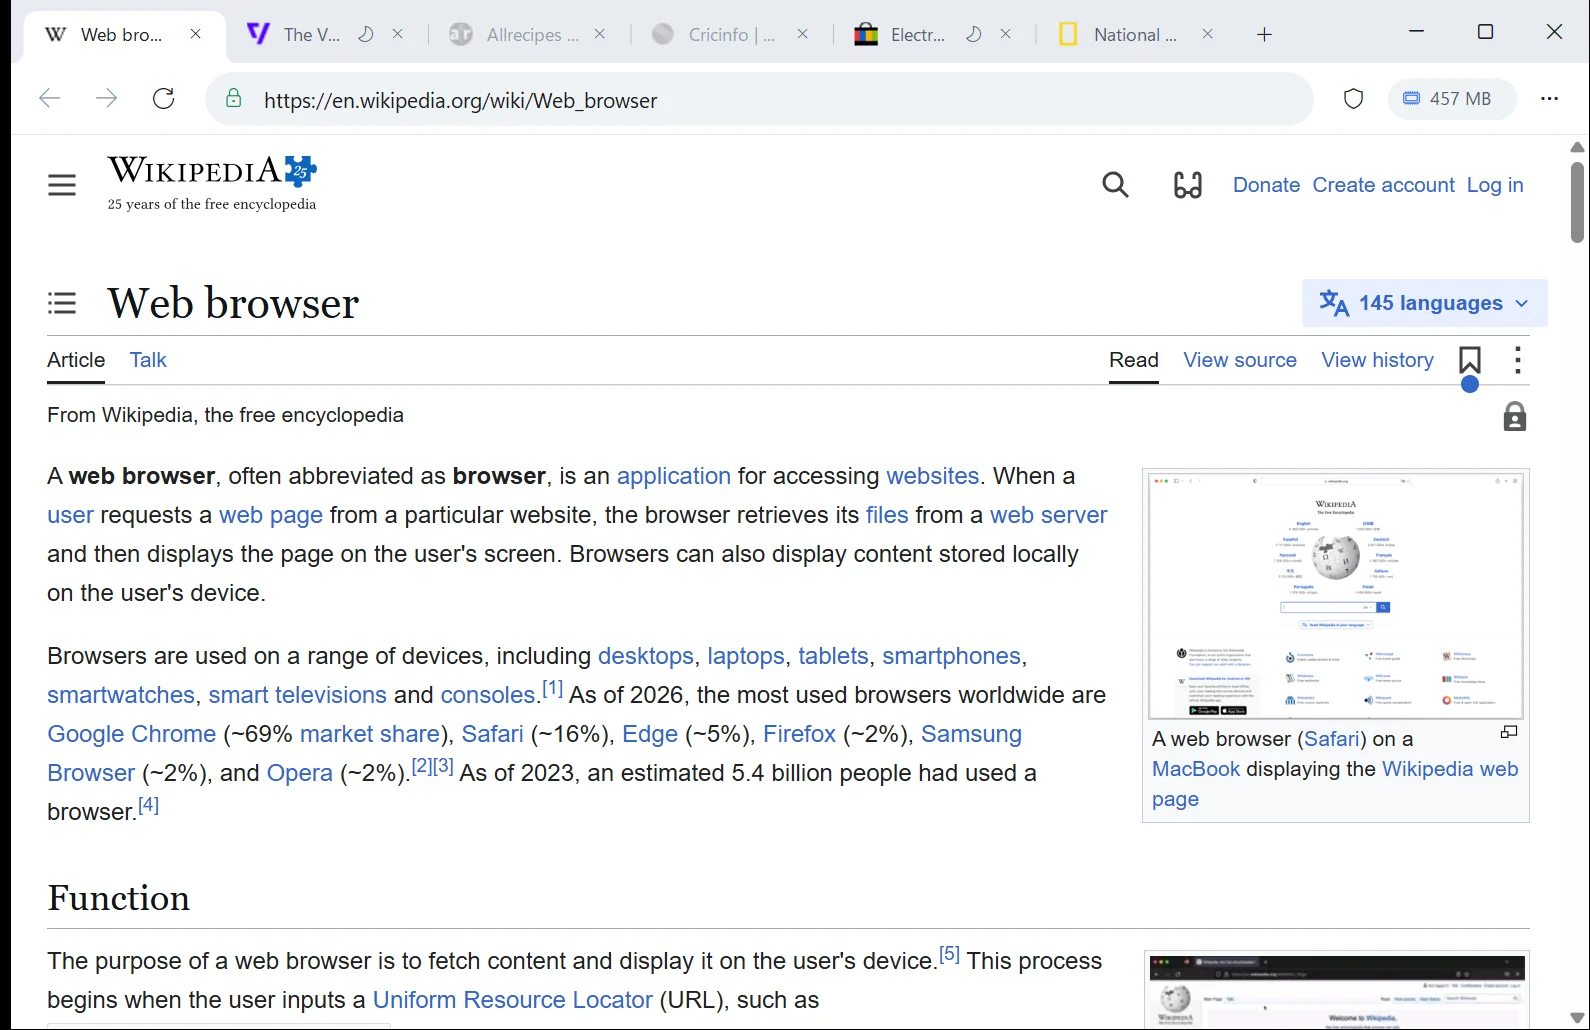
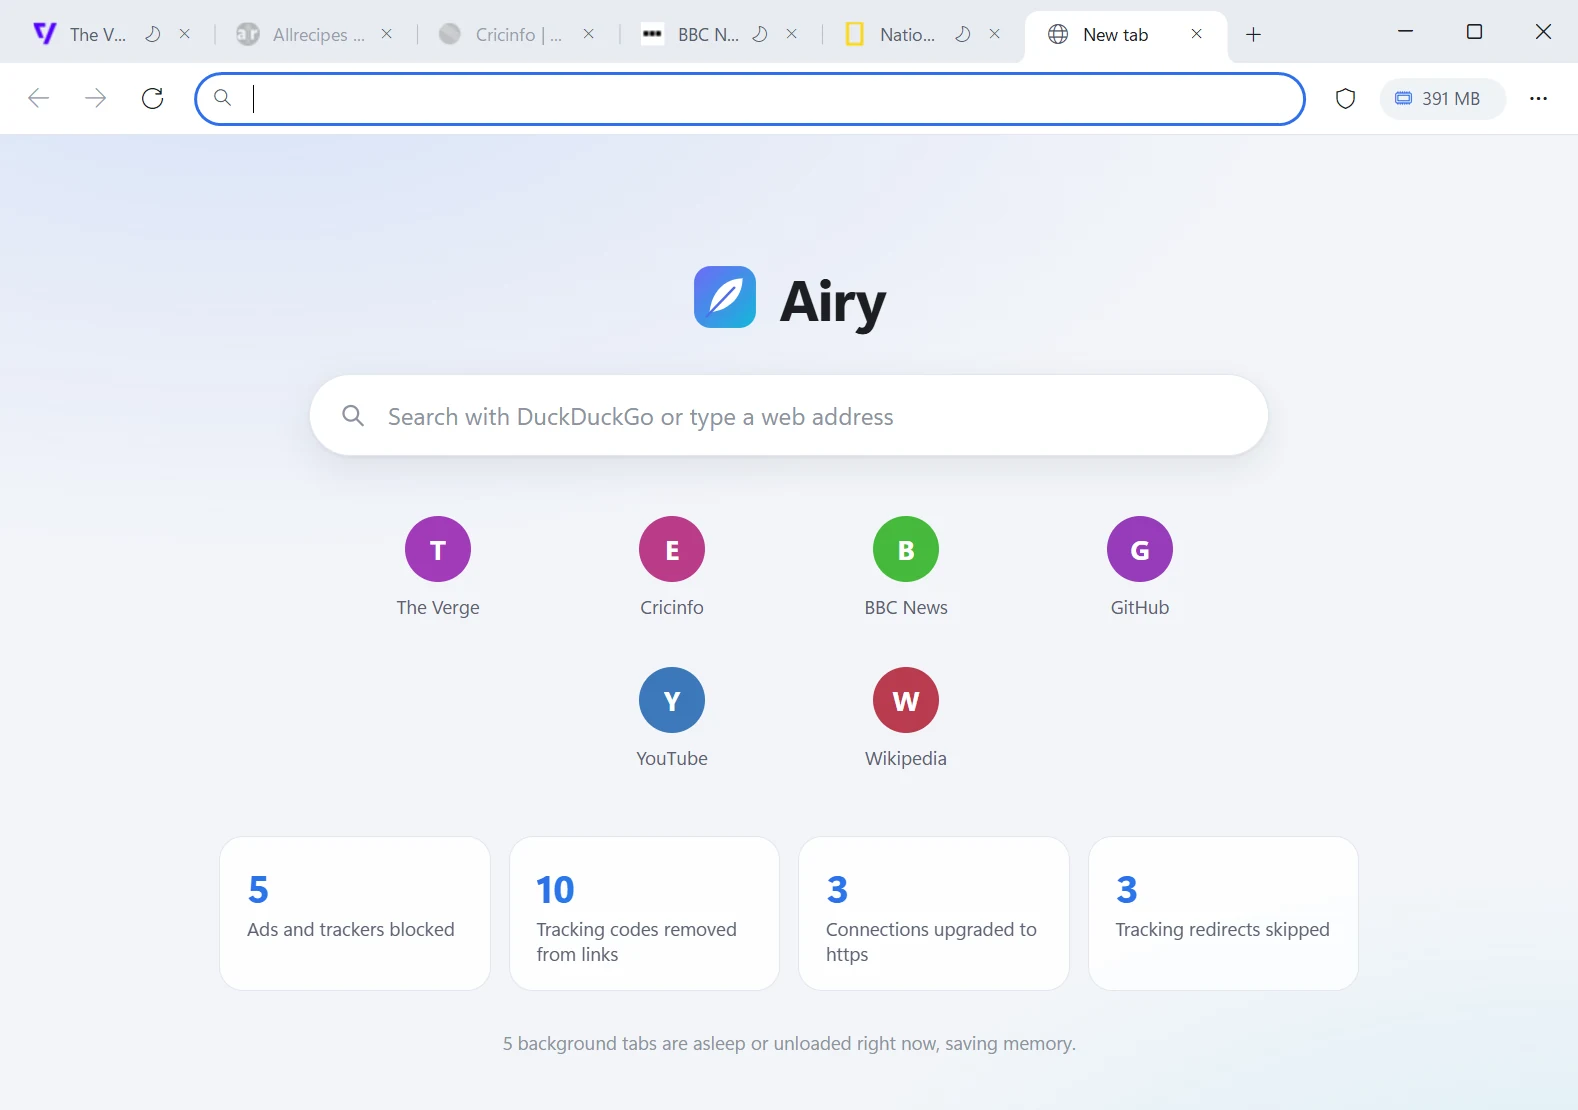
Hero: Airy start page with sleeping tabs and privacy counters; matching link preview

diff --git a/index.html b/index.html
@@ -57,9 +57,9 @@
       <ul class="fine reveal"><li>Free, MIT License</li><li>No account</li><li>No telemetry</li><li>No admin rights to install</li></ul>
     </div>
     <div class="shot reveal">
-      <img src="assets/hero.webp" width="1590" height="1030" alt="Airy showing a Wikipedia article. Six tabs are open; background tabs show a moon icon when asleep and are greyed out when unloaded. The toolbar reads 457 MB.">
+      <img src="assets/hero.webp" width="1578" height="1110" alt="Airy's new tab page with five sites open in background tabs, each showing a moon icon because it is asleep. The page counts 5 ads and trackers blocked, 10 tracking codes removed from links, 3 connections upgraded to https and 3 tracking redirects skipped, and the toolbar reads 391 MB.">
       <div class="tag tag-sleep"><svg class="moon" viewBox="0 0 16 16" aria-hidden="true"><path fill="currentColor" d="M10.5 1.2a6.8 6.8 0 1 0 4.3 11.1A6 6 0 0 1 10.5 1.2z"/></svg><span><b>Asleep</b> after 30 s in the background</span></div>
-      <div class="tag tag-mem"><span><b>457 MB</b> for six tabs, shown live in the toolbar</span></div>
+      <div class="tag tag-mem"><span><b>391 MB</b> for six tabs, shown live in the toolbar</span></div>
     </div>
   </div>
 </section>

diff --git a/assets/site.css b/assets/site.css
@@ -61,7 +61,7 @@ p { margin: 0; text-wrap: pretty; }
 .shot img { border-radius: 14px; box-shadow: 0 0 0 1px oklch(22% 0.03 262 / .08), 0 30px 70px -30px oklch(30% 0.1 262 / .45); }
 .tag { position: absolute; display: flex; gap: .55rem; align-items: center; background: var(--paper); border: 1px solid var(--line); border-radius: 12px; padding: .6rem .85rem; font-size: .88rem; color: var(--ink-2); box-shadow: 0 12px 30px -18px oklch(30% 0.08 262 / .5); }
 .tag b { color: var(--ink); font-weight: 650; }
-.tag-sleep { bottom: 12%; left: -1.5rem; } .tag-mem { top: 15%; right: clamp(2.5rem, 9vw, 10rem); }
+.tag-sleep { top: 13%; left: -1.5rem; } .tag-mem { top: 13%; right: -1.5rem; }
 .moon { width: 15px; height: 15px; color: var(--blue); }
 @media (max-width: 900px) { .hero-grid { grid-template-columns: 1fr; } .shot { margin-right: 0; } .tag-mem { right: 1rem; } .tag-sleep { left: 1rem; } }
 @media (max-width: 560px) { .tag { display: none; } }

diff --git a/tools/og.py b/tools/og.py
@@ -45,9 +45,10 @@ for i, (name, mb) in enumerate([("Chrome", 2043), ("Edge", 1460), ("Airy", 777)]
     d.text((172 + w, y + 3), f"{mb:,} MB", font=sans, fill=c)
 d.text((64, 568), "Free for Windows 10 and 11", font=sans2, fill=grey)
 
-shot = Image.open(ROOT / "assets" / "hero.webp").convert("RGB").crop((0, 0, 1000, 1030))
-shot = shot.resize((600, 618), Image.LANCZOS)
-x0, y0 = 668, 110
+# The left part of the hero: sleeping tabs, the start page and its privacy counters. It runs off the right edge.
+shot = Image.open(ROOT / "assets" / "hero.webp").convert("RGB").crop((0, 0, 1180, 1110))
+shot = shot.resize((round(1180 * 0.5), round(1110 * 0.5)), Image.LANCZOS)
+x0, y0 = 652, 64
 shadow = Image.new("RGBA", (shot.width + 80, shot.height + 80), (0, 0, 0, 0))
 ImageDraw.Draw(shadow).rounded_rectangle([40, 52, 40 + shot.width, 52 + shot.height], 18, fill=(30, 50, 110, 90))
 shadow = shadow.filter(ImageFilter.GaussianBlur(22))

diff --git a/README.md b/README.md
@@ -4,7 +4,7 @@ A light, private browser for Windows 10 and 11. Background tabs sleep after 30 s
 
 **Website and download:** https://nishants-lab.github.io/airy/
 
-![Airy showing a Wikipedia article, with sleeping background tabs and the memory readout in the toolbar](assets/hero.webp)
+![Airy's new tab page with five sleeping background tabs, its privacy counters and the memory readout in the toolbar](assets/hero.webp)
 
 With 8 busy tabs left idle for 60 seconds, Airy used 777 MB, Chrome 2,043 MB and Edge 1,460 MB (Task Manager, average of two runs). The website explains how this was measured.
 
